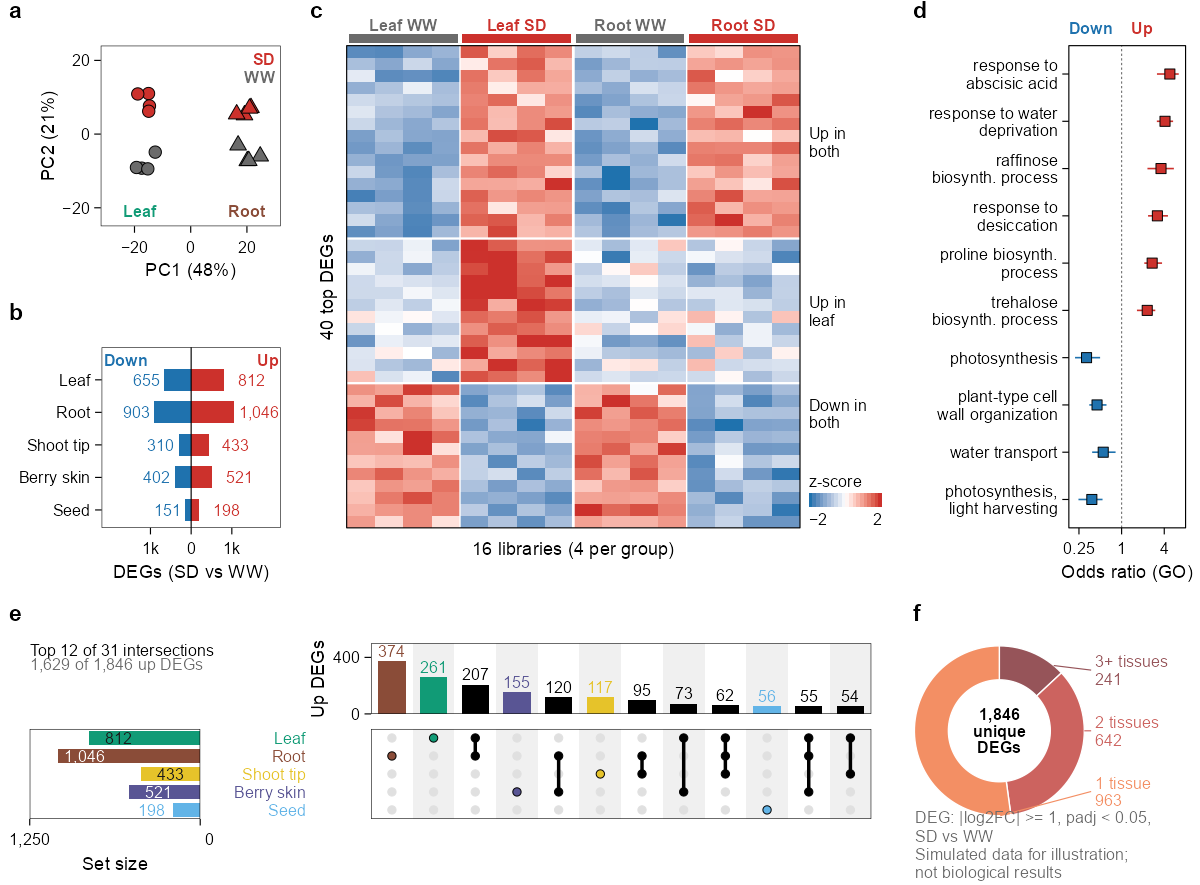
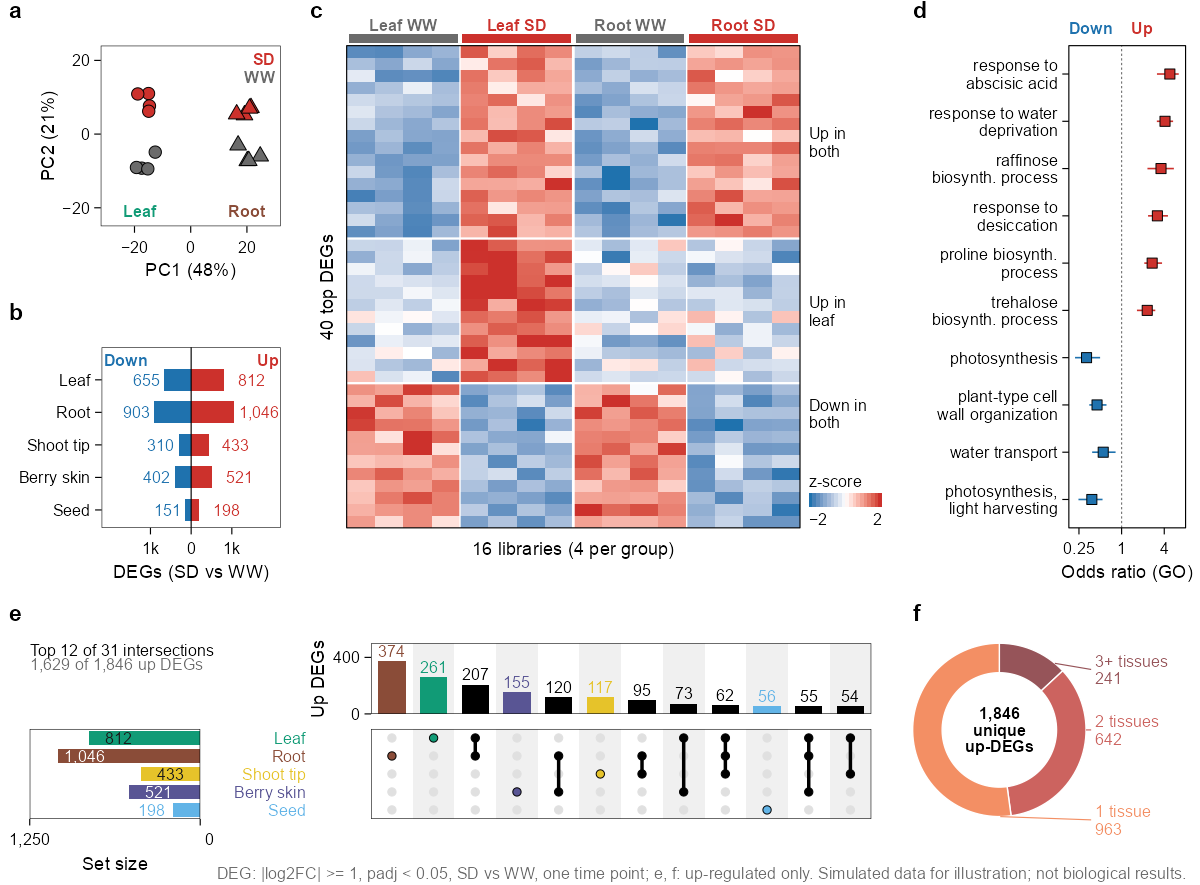
fix(house-mosaic): page footnote, up-DEG donut label, thumbnail sizes
- transcriptome: the DEG definition and simulated-data note move to one
  7 pt line at the bottom of the figure; f keeps only the donut, aligned
  with e's bar area, centre "N unique up-DEGs" from the asserted total,
  wider hole, leaders clear of all text
- house-style #sizes: example thumbnails get explicit width/height
- build_catalog.py: print the badge line only when a badge was updated;
  unit test for badge present / absent

Changed region(s): [[0.3083, 0.7322, 0.9867, 1.0], [0.185, 0.9763, 0.2775, 1.0]]

diff --git a/docs/house-style/index.html b/docs/house-style/index.html
@@ -340,9 +340,9 @@ pv_save_house(page, "figure", cells = c(4, 1))</code></pre>
     </tbody>
     <tbody>
       <tr><th colspan="8">示例 / Examples</th></tr>
-      <tr><td><a href="../#house-mosaic-transcriptome"><code>house-mosaic-transcriptome</code></a></td><td>4×3</td><td colspan="6"><a href="../previews/house-mosaic-transcriptome.png"><img src="../previews/house-mosaic-transcriptome.png" alt="house-mosaic-transcriptome preview" height="72" loading="lazy"></a></td></tr>
-      <tr><td><a href="../#house-mosaic-aba-kinetics"><code>house-mosaic-aba-kinetics</code></a></td><td>2×4</td><td colspan="6"><a href="../previews/house-mosaic-aba-kinetics.png"><img src="../previews/house-mosaic-aba-kinetics.png" alt="house-mosaic-aba-kinetics preview" height="72" loading="lazy"></a></td></tr>
-      <tr><td><a href="../#house-mosaic-gwas"><code>house-mosaic-gwas</code></a></td><td>4×2</td><td colspan="6"><a href="../previews/house-mosaic-gwas.png"><img src="../previews/house-mosaic-gwas.png" alt="house-mosaic-gwas preview" height="72" loading="lazy"></a></td></tr>
+      <tr><td><a href="../#house-mosaic-transcriptome"><code>house-mosaic-transcriptome</code></a></td><td>4×3</td><td colspan="6"><a href="../previews/house-mosaic-transcriptome.png"><img src="../previews/house-mosaic-transcriptome.png" alt="house-mosaic-transcriptome preview" width="130" height="96" style="display:block;border:1px solid #e5e7eb"></a></td></tr>
+      <tr><td><a href="../#house-mosaic-aba-kinetics"><code>house-mosaic-aba-kinetics</code></a></td><td>2×4</td><td colspan="6"><a href="../previews/house-mosaic-aba-kinetics.png"><img src="../previews/house-mosaic-aba-kinetics.png" alt="house-mosaic-aba-kinetics preview" width="47" height="96" style="display:block;border:1px solid #e5e7eb"></a></td></tr>
+      <tr><td><a href="../#house-mosaic-gwas"><code>house-mosaic-gwas</code></a></td><td>4×2</td><td colspan="6"><a href="../previews/house-mosaic-gwas.png"><img src="../previews/house-mosaic-gwas.png" alt="house-mosaic-gwas preview" width="198" height="96" style="display:block;border:1px solid #e5e7eb"></a></td></tr>
     </tbody>
   </table></div>
   <p>示例 / Examples: <code>house-mosaic-transcriptome</code> (4×3) · <code>house-mosaic-aba-kinetics</code> (2×4) · <code>house-mosaic-gwas</code> (4×2). 测量方法与每档容量 / Method and capacity per size: <a href="https://github.com/Xuzhen-Li/paper-viz/blob/main/styles/style-contract.md">styles/style-contract.md</a>.</p>

diff --git a/tests/test_build_catalog.py b/tests/test_build_catalog.py
@@ -1,0 +1,44 @@
+"""Tests for the README badge step of tools/build_catalog.py. Run: python3 -m unittest discover tests"""
+from __future__ import annotations
+
+import importlib.util
+import tempfile
+import unittest
+from pathlib import Path
+
+ROOT = Path(__file__).resolve().parents[1]
+SCRIPT = ROOT / "tools" / "build_catalog.py"
+
+
+def load_builder():
+    spec = importlib.util.spec_from_file_location("build_catalog", SCRIPT)
+    module = importlib.util.module_from_spec(spec)
+    assert spec.loader is not None
+    spec.loader.exec_module(module)
+    return module
+
+
+class RewriteBadgeTest(unittest.TestCase):
+    def setUp(self) -> None:
+        self.mod = load_builder()
+        self.tmp = tempfile.TemporaryDirectory()
+        self.readme = Path(self.tmp.name) / "README.md"
+
+    def tearDown(self) -> None:
+        self.tmp.cleanup()
+
+    def test_badge_present_is_replaced(self) -> None:
+        self.readme.write_text(
+            "# x\n![figures](https://img.shields.io/badge/figures-12-blue)\n", encoding="utf-8")
+        self.assertTrue(self.mod.rewrite_badge(115, self.readme))
+        self.assertIn("badge/figures-115-blue", self.readme.read_text(encoding="utf-8"))
+
+    def test_no_badge_is_skipped(self) -> None:
+        text = "# x\nNo badge here.\n"
+        self.readme.write_text(text, encoding="utf-8")
+        self.assertFalse(self.mod.rewrite_badge(115, self.readme))
+        self.assertEqual(self.readme.read_text(encoding="utf-8"), text)
+
+
+if __name__ == "__main__":
+    unittest.main()

diff --git a/tools/build_catalog.py b/tools/build_catalog.py
@@ -864,12 +864,14 @@ BADGE_RE = re.compile(r"(https://img\.shields\.io/badge/figures-)\d+")
 GALLERY_PAGE = "https://xuzhen-li.github.io/paper-viz"
 
 
-def rewrite_badge(figure_count: int) -> None:
-    text = README.read_text(encoding="utf-8")
+def rewrite_badge(figure_count: int, readme: Path = README) -> bool:
+    """Update the shields.io figures badge in the README; return False (no write) when there is none."""
+    text = readme.read_text(encoding="utf-8")
     new, n = BADGE_RE.subn(rf"\g<1>{figure_count}", text, count=1)
     if n != 1:
-        return  # the README no longer carries a figures badge (removed on main in 4113ff4)
-    README.write_text(new, encoding="utf-8")
+        return False  # the README no longer carries a figures badge (removed on main in 4113ff4)
+    readme.write_text(new, encoding="utf-8")
+    return True
 
 
 def render_llms(figures: list[dict]) -> str:
@@ -925,11 +927,12 @@ def main() -> None:
     DOCS.mkdir(parents=True, exist_ok=True)
     (DOCS / "catalog.json").write_text(raw, encoding="utf-8")
     rewrite_readme(render_readme(figures))
-    rewrite_badge(len(figures))
+    badge = rewrite_badge(len(figures))
     write_llms(figures)
     cards = sum(1 for row in figures if not row["variant_of"])
     print(f"catalog {len(figures)} figures, {cards} cards")
-    print(f"badge figures-{len(figures)}")
+    if badge:
+        print(f"badge figures-{len(figures)}")
     print("wrote docs/llms.txt")
 
 
